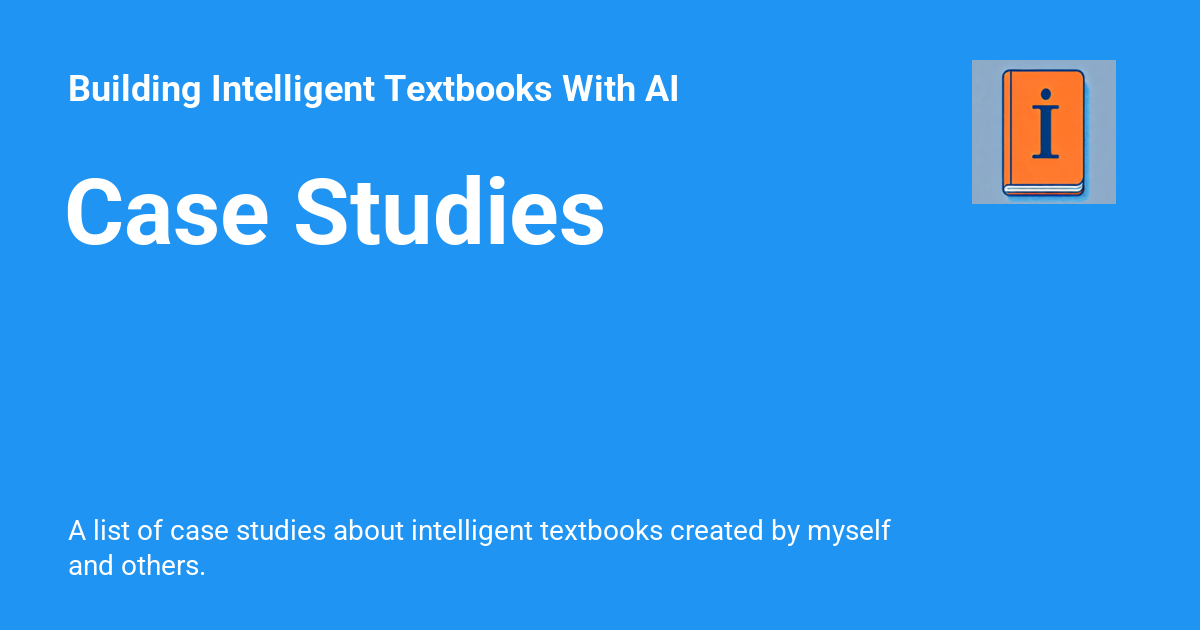
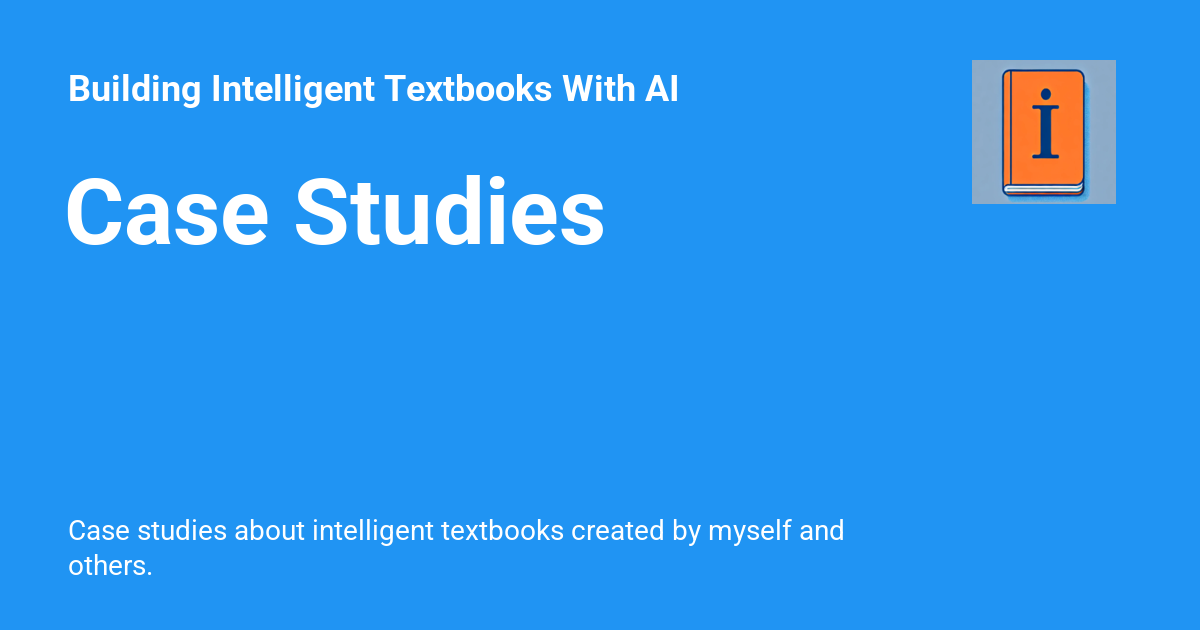
Deployed 3b8c557 with MkDocs version: 1.6.1

Changed region(s): [[0.0617, 0.8143, 0.74, 0.9349]]

diff --git a/case-studies/index.html b/case-studies/index.html
@@ -6,7 +6,7 @@
       <meta charset="utf-8">
       <meta name="viewport" content="width=device-width,initial-scale=1">
       
-        <meta name="description" content="A list of case studies about intelligent textbooks created by myself and others.">
+        <meta name="description" content="Case studies about intelligent textbooks created by myself and others.">
       
       
         <meta name="author" content="Dan McCreary">
@@ -75,9 +75,9 @@
       
         <meta  property="og:title"  content="Case Studies - Building Intelligent Textbooks With AI" >
       
-        <meta  property="og:description"  content="A list of case studies about intelligent textbooks created by myself and others." >
+        <meta  property="og:description"  content="Case studies about intelligent textbooks created by myself and others." >
       
-        <meta  property="og:image"  content="https://dmccreary.github.io/intelligent-textbooks/assets/images/social/case-studies/index.png" >
+        <meta property="og:image" content="https://dmccreary.github.io/intelligent-textbooks/case-studies/img/case-studies.png">
       
         <meta  property="og:image:type"  content="image/png" >
       
@@ -91,9 +91,9 @@
       
         <meta  name="twitter:title"  content="Case Studies - Building Intelligent Textbooks With AI" >
       
-        <meta  name="twitter:description"  content="A list of case studies about intelligent textbooks created by myself and others." >
+        <meta  name="twitter:description"  content="Case studies about intelligent textbooks created by myself and others." >
       
-        <meta  name="twitter:image"  content="https://dmccreary.github.io/intelligent-textbooks/assets/images/social/case-studies/index.png" >
+        <meta name="twitter:image" content="https://dmccreary.github.io/intelligent-textbooks/case-studies/img/case-studies.png">
       
     
     
